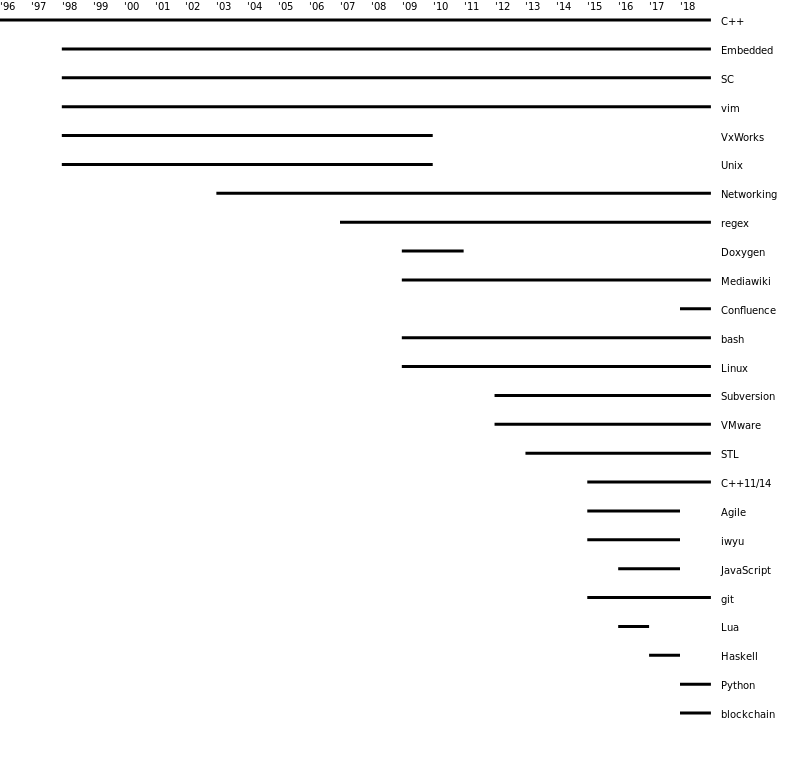
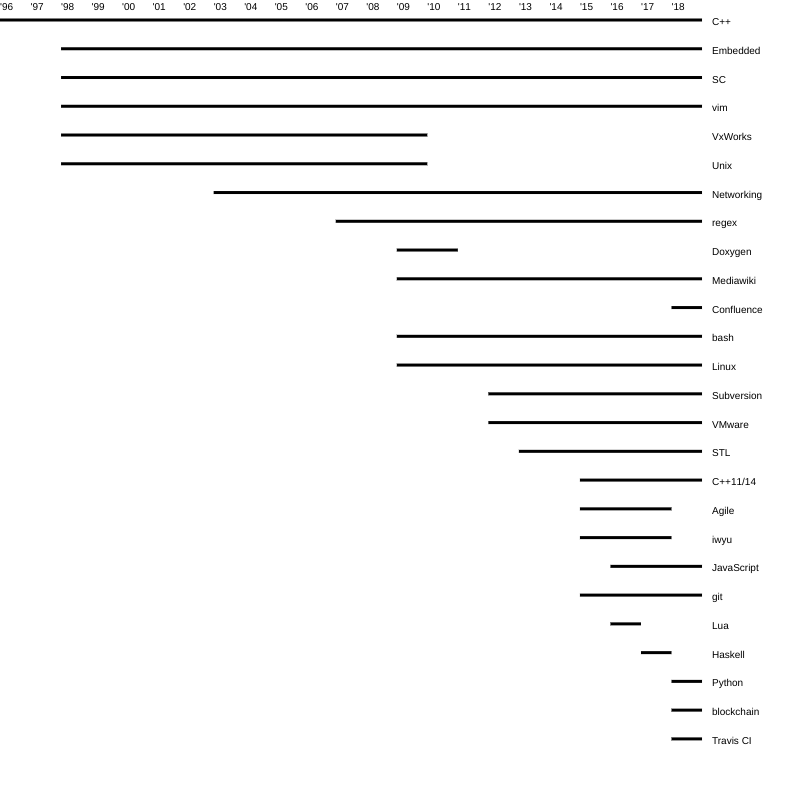
Add Travis CI

Changed region(s): [[0.0608, 0.0605, 0.9722, 0.9079], [0.0, 0.0, 0.881, 0.0303], [0.9114, 0.9382, 0.9722, 0.9684]]

diff --git a/skills.html b/skills.html
@@ -32,12 +32,13 @@
 		["C++11/14",    	2015, now],
 		["Agile",		2015, 2017],
 		["iwyu",		2015, 2017],
-		["JavaScript",  	2016, 2017],
+		["JavaScript",  	2016, now],
 		["git",			2015, now],
 		["Lua",			2016, 2016],
 		["Haskell",		2017, 2017],
 		["Python",		2018, now],
 		["blockchain",		2018, now],
+		["Travis CI",		2018, now],
 	];
 </script>
 
